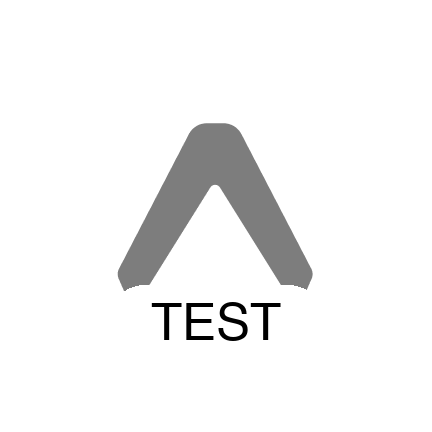
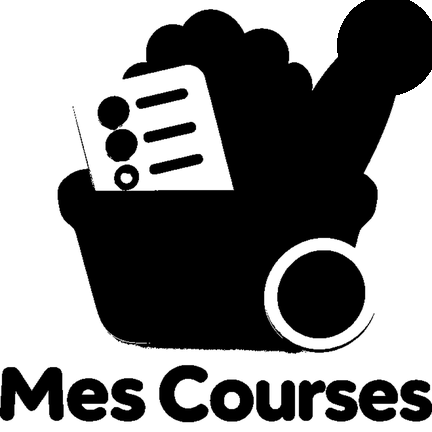
feat(mobile): implement user stories 8, 9 and 11 of basket-identity UI

diff --git a/apps/mobile/src/adapters/ui/components/EmptyState.tsx b/apps/mobile/src/adapters/ui/components/EmptyState.tsx
@@ -1,12 +1,14 @@
 import type { Ref } from 'react';
 import { StyleSheet, View, type HostInstance } from 'react-native';
-import { Button, Icon, useTheme } from 'react-native-paper';
+import { Button, Icon, Text, useTheme } from 'react-native-paper';
 
 import type { AppTheme } from '../theme/theme';
 import { StateLayout } from './StateLayout';
 import { StateMessage } from './StateMessage';
 
 export interface EmptyStateProps {
+  /** Hierarchically styled title shown above the message, when provided. */
+  title?: string;
   message: string;
   action?: { label: string; onPress: () => void };
   /** The message, for a focus move to the empty state (FR-037). */
@@ -17,6 +19,7 @@ export interface EmptyStateProps {
 
 /** A data region with nothing to show, and what the user can do about it (Principle IX). */
 export const EmptyState = ({
+  title,
   message,
   action,
   messageRef,
@@ -39,6 +42,11 @@ export const EmptyState = ({
       >
         <Icon source={icon} size={32} color={colors.primary} />
       </View>
+      {title && (
+        <Text variant="titleMedium" style={{ color: colors.onSurface }}>
+          {title}
+        </Text>
+      )}
       <StateMessage ref={messageRef}>{message}</StateMessage>
       {action && (
         <Button mode="outlined" onPress={action.onPress}>

diff --git a/apps/mobile/src/adapters/ui/components/ErrorState.tsx b/apps/mobile/src/adapters/ui/components/ErrorState.tsx
@@ -1,11 +1,13 @@
 import { StyleSheet, View } from 'react-native';
-import { Button, Icon, useTheme } from 'react-native-paper';
+import { Button, Icon, Text, useTheme } from 'react-native-paper';
 
 import type { AppTheme } from '../theme/theme';
 import { StateLayout } from './StateLayout';
 import { StateMessage } from './StateMessage';
 
 export interface ErrorStateProps {
+  /** Hierarchically styled title shown above the message, when provided. */
+  title?: string;
   message: string;
   onRetry: () => void;
   /** Soft brand-toned icon shown above the message. */
@@ -14,6 +16,7 @@ export interface ErrorStateProps {
 
 /** A data region that failed to load, with a way to try again (Principle IX). */
 export const ErrorState = ({
+  title,
   message,
   onRetry,
   icon = 'alert-circle-outline',
@@ -35,6 +38,11 @@ export const ErrorState = ({
       >
         <Icon source={icon} size={32} color={colors.primary} />
       </View>
+      {title && (
+        <Text variant="titleMedium" style={{ color: colors.onSurface }}>
+          {title}
+        </Text>
+      )}
       <StateMessage>{message}</StateMessage>
       <Button mode="outlined" onPress={onRetry}>
         Réessayer

diff --git a/apps/mobile/src/adapters/ui/theme/dark-appearance.test.tsx b/apps/mobile/src/adapters/ui/theme/dark-appearance.test.tsx
@@ -1,0 +1,26 @@
+import { darkTheme, lightTheme } from './theme';
+import materialTheme from '../../../../../../design/material-theme.json';
+
+describe('dark appearance keeps the brand identity', () => {
+  it('keeps the brand yellow unchanged in both appearances', () => {
+    expect(lightTheme.colors.primaryContainer).toBe('#FFDE3F');
+    expect(darkTheme.colors.primaryContainer).toBe('#FFDE3F');
+  });
+
+  it('uses the dark surface family when dark', () => {
+    expect(darkTheme.dark).toBe(true);
+    expect(lightTheme.dark).toBe(false);
+    expect(darkTheme.colors.background).toBe(
+      materialTheme.schemes.dark.background,
+    );
+    expect(lightTheme.colors.background).toBe(
+      materialTheme.schemes.light.background,
+    );
+  });
+
+  it('keeps Nunito in both themes', () => {
+    for (const variant of Object.values(darkTheme.fonts)) {
+      expect(variant.fontFamily).toMatch(/^Nunito_/);
+    }
+  });
+});

diff --git a/specs/007-basket-identity-ui/tasks.md b/specs/007-basket-identity-ui/tasks.md
@@ -409,15 +409,15 @@ dedicated shared component.
 
 ### Implementation for User Story 8
 
-- [ ] T055 [US8] Finalize `EmptyState`, `ErrorState`, `LoadingState`, `ScreenStateView` and
+- [x] T055 [US8] Finalize `EmptyState`, `ErrorState`, `LoadingState`, `ScreenStateView` and
   `StateMessage` interactions so every data screen keeps using its dedicated component
   (Principle IX), wrapping internal padding/layout in `spacing` tokens and the brand icon circle
   from T010.
-- [ ] T056 [P] [US8] Add/update the state stories (`EmptyState.stories.tsx`,
+- [x] T056 [P] [US8] Add/update the state stories (`EmptyState.stories.tsx`,
   `ErrorState.stories.tsx`, `LoadingState.stories.tsx`) with light/dark and action/no-action cases,
   adding the refreshed visual treatment; keep story ids stable or update `requiredStories`
   accordingly.
-- [ ] T057 [US8] Update `screen-state.test.tsx` and the emptied screens' tests for the soft icon,
+- [x] T057 [US8] Update `screen-state.test.tsx` and the emptied screens' tests for the soft icon,
   recovery action and the dedicated-component rule; do not change French copy.
 
 **Checkpoint**: User Story 8 stories render in light/dark and its tests pass.
@@ -434,15 +434,15 @@ surfaces and Nunito persist with legible text on all core screens.
 
 ### Implementation for User Story 9
 
-- [ ] T058 [US9] Audit every shared component and screen for dark-only regressions: ensure no
+- [x] T058 [US9] Audit every shared component and screen for dark-only regressions: ensure no
   surface uses a hard-coded light color, default elevations stay readable and Nunito still applies
   under `MD3DarkTheme`. Fix any `useColorScheme`-dependent cast or fallback introduced in Phase 1.
-- [ ] T059 [US9] Verify `UsedColorPairs` passes in dark for all pairs added in T008/T010-T017
+- [x] T059 [US9] Verify `UsedColorPairs` passes in dark for all pairs added in T008/T010-T017
   (`theme.test.ts`); add any missing pair and re-run until green. Do not weaken contrast thresholds
   (FR-017).
-- [ ] T060 [P] [US9] Render the full Storybook gallery in dark via `required-stories` and fix
+- [x] T060 [P] [US9] Render the full Storybook gallery in dark via `required-stories` and fix
   warnings/errors caused by the dark theme (font, elevation, icon contrast).
-- [ ] T061 [US9] Add a focused regression test (in `theme.test.ts` or a new
+- [x] T061 [US9] Add a focused regression test (in `theme.test.ts` or a new
   `dark-appearance.test.tsx`) asserting `primaryContainer` is `#FFDE3F` in both themes and that
   surfaces use the dark family when `dark` is true; document dark screenshots in the PR.
 
@@ -490,18 +490,18 @@ transition.
 
 ### Implementation for User Story 11
 
-- [ ] T066 [US11] Replace the production and staging launcher assets with basket-on-cream
+- [x] T066 [US11] Replace the production and staging launcher assets with basket-on-cream
   artwork: `apps/mobile/assets/icon.png`, `apps/mobile/assets/staging/icon.png`,
   `apps/mobile/assets/android-icon-foreground.png`,
   `apps/mobile/assets/staging/android-icon-foreground.png`,
   `apps/mobile/assets/android-icon-monochrome.png` and
   `apps/mobile/assets/staging/android-icon-monochrome.png`, preserving file paths and `appVariant`.
   Keep `apps/mobile/assets/splash-screen.png` as the existing basket-on-cream splash from 006.
-- [ ] T067 [US11] Update the staging badge so production and staging remain visually
+- [x] T067 [US11] Update the staging badge so production and staging remain visually
   distinguishable while both keep the basket identity (per `build-config/app-variant.cjs`).
-- [ ] T068 [US11] Do not change `apps/mobile/app.config.ts`, `build-config/app-variant.cjs` or the
+- [x] T068 [US11] Do not change `apps/mobile/app.config.ts`, `build-config/app-variant.cjs` or the
   splash transition logic; verify them unchanged in review and only replace.asset files.
-- [ ] T069 [US11] Update `StartupSplash.tsx`/its stories/tests (from feature 006) so the startup
+- [x] T069 [US11] Update `StartupSplash.tsx`/its stories/tests (from feature 006) so the startup
   screen keeps the basket-on-cream visual in both light and dark, with the automatic offline
   transition unchanged. Keep `StartupSplash.test.tsx` green.
 
